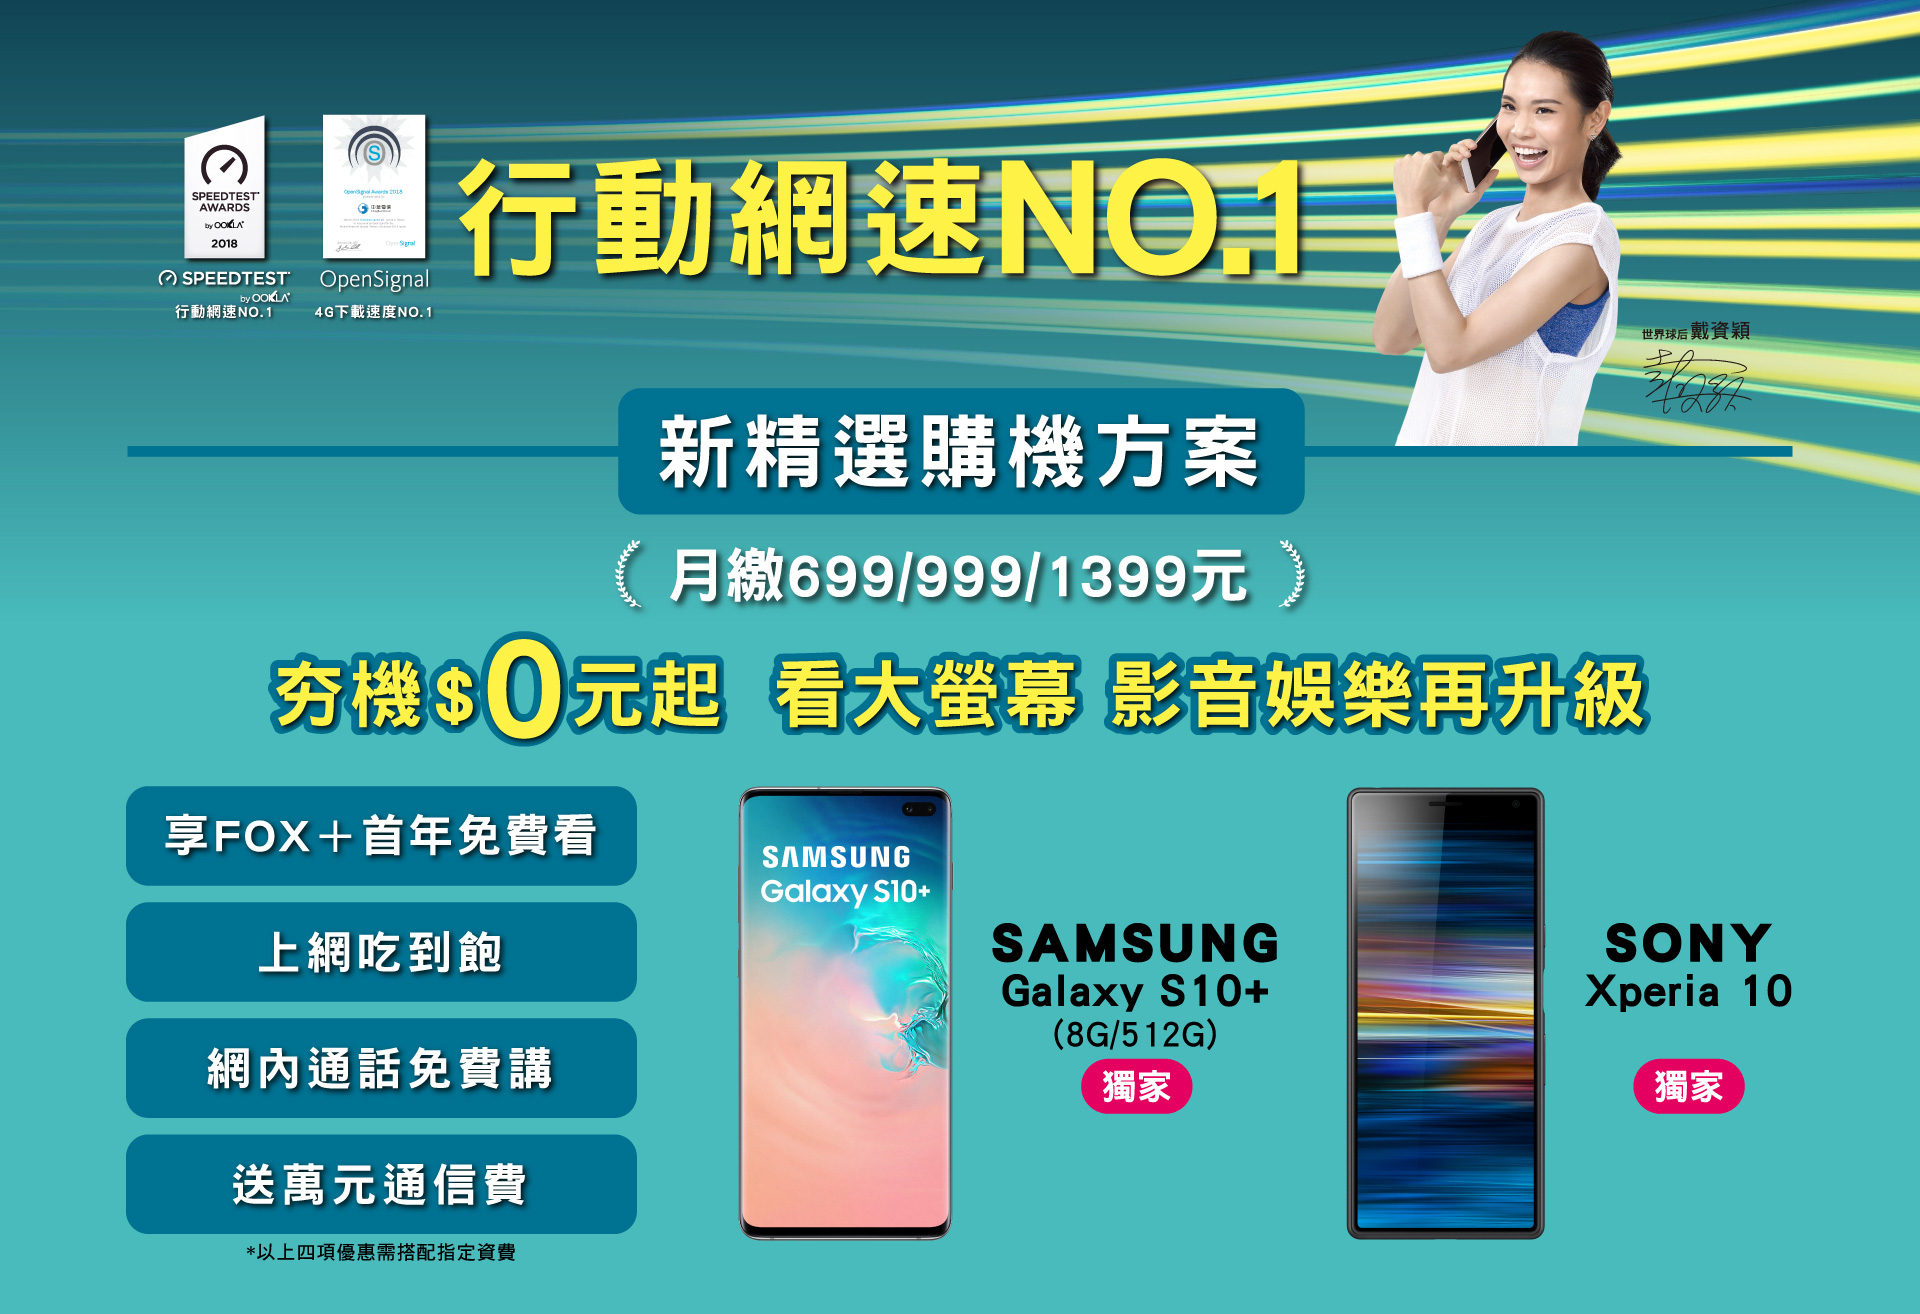
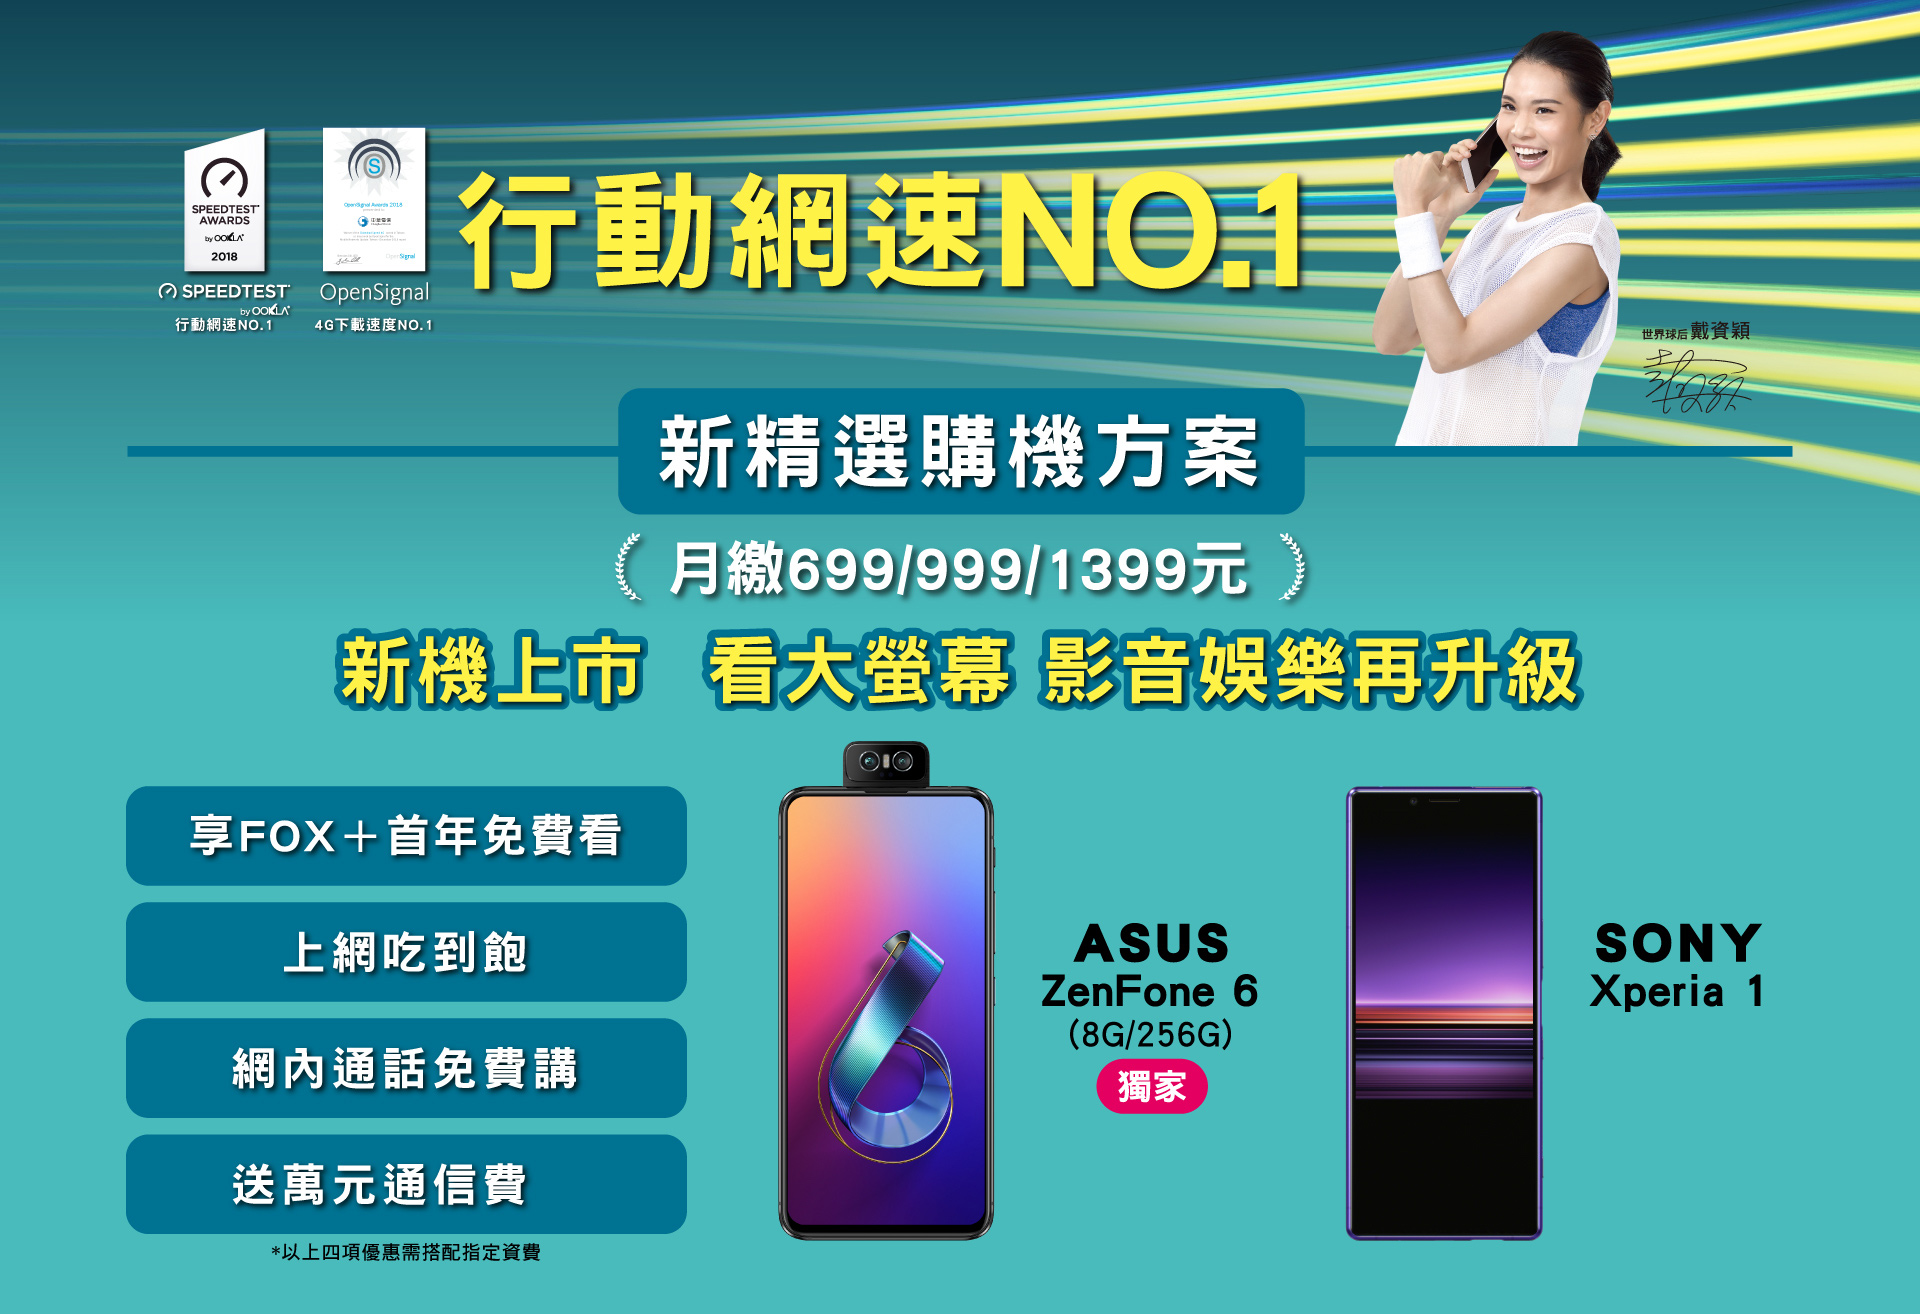
新精選
更新手機型號與連結
更新主視覺

diff --git a/demo/new_699/index.html b/demo/new_699/index.html
@@ -3055,7 +3055,7 @@
 		<div class="nav-wrap">
 			<ul class="nav_page">
 				<li>
-					<a href="http://www.emome.net/" target="_blank">
+					<a href="https://www.emome.net/" target="_blank">
 						<img src="img/logo.png">
 					</a>
 				</li>
@@ -3219,18 +3219,19 @@
 					<ul class="exhibtion ">
 
 						<li>
-							<a target="_blank" href="https://iphone-eshop.cdn.hinet.net/Next.html?_gl=1*10grr4t*_gcl_aw*R0NMLjE1NTM0OTcyOTMuQ2p3S0NBancxZHprQlJCV0Vpd0FST1ZETEpkZFZlV2JOSElJWXg2OTNobHZhSmVrWW15WHJ0N0hDdk9nTGV4QXhDS1hyV0UxdEJZYXp4b0NyeGdRQXZEX0J3RQ..&_ga=2.193046116.898658484.1553744473-1549173451.1514430039&_gac=1.250298996.1553497300.CjwKCAjw1dzkBRBWEiwAROVDLJddVeWbNHIIYx693hlvaJekYmyXrt7HCvOgLexAxCKXrWE1tBYazxoCrxgQAvD_BwE">
-								<img src="img/phone_a_002.png" />
-								<h1>APPLE</h1>
-								<p>iPhone XS Max</p>
-								 
-							</a>
-						</li>
-						<li>
-							<a target="_blank" href="https://iphone-eshop.cdn.hinet.net/Next.html?_gl=1*181xehd*_gcl_aw*R0NMLjE1NTM0OTcyOTMuQ2p3S0NBancxZHprQlJCV0Vpd0FST1ZETEpkZFZlV2JOSElJWXg2OTNobHZhSmVrWW15WHJ0N0hDdk9nTGV4QXhDS1hyV0UxdEJZYXp4b0NyeGdRQXZEX0J3RQ..&_ga=2.91712211.898658484.1553744473-1549173451.1514430039&_gac=1.93981295.1553497300.CjwKCAjw1dzkBRBWEiwAROVDLJddVeWbNHIIYx693hlvaJekYmyXrt7HCvOgLexAxCKXrWE1tBYazxoCrxgQAvD_BwE">
+							<a target="_blank" href="https://www.cht.com.tw/home/consumer/mobservice/device/phones#!_keyword%3AXR%26_orderby%3A%26_page%3A1">
 								<img src="img/phone_a_003.png" />
 								<h1>APPLE</h1>
 								<p>iPhone XR</p>
+								
+							</a>
+						</li>
+						<li>
+							<a target="_blank" href="https://www.cht.com.tw/home/consumer/mobservice/device/phones#!_keyword%3AZenfone%206%26_orderby%3A%26_page%3A1">
+								<img src="img/ASUSZF6.png" />
+								<h1>ASUS</h1>
+								<p>ZenFone 6 (8G/256G)</p>
+								<span class="one">獨家</span>
 								
 							</a>
 						</li>
@@ -3250,22 +3251,50 @@
 				<div>
 					<ul class="exhibtion">
 						<li>
-							<a target="_blank" href="https://www.cht.com.tw/home/consumer/mobservice/device/phones/000100001325#color:C50316402002">
-								<img src="img/iPhone7.png" />
+							<a target="_blank" href="https://www.cht.com.tw/home/consumer/mobservice/device/phones#!_keyword%3AXS%20Max%26_orderby%3A%26_page%3A1">
+								<img src="img/phone_a_002.png" />
 								<h1>APPLE</h1>
-								<p>iPhone 7
-								</p>
-
+								<p>iPhone XS Max</p>
+								 
 							</a>
 						</li>
 						<li>
-							<a target="_blank" href="https://www.cht.com.tw/home/consumer/mobservice/device/phones/000100002044#color:050318130002">
-								<img src="img/SONYXZ2.png" />
+							<a target="_blank" href="https://www.cht.com.tw/home/consumer/mobservice/device/phones/000100002384#color:050318979002">
+								<img src="img/SONYXperia1.png" />
 								<h1>SONY</h1>
-								<p>Xperia XZ2</p>
+								<p>Xperia 1</p>
 							</a>
 						</li>
 						
+						<li>
+							<a target="_blank" href="https://www.cht.com.tw/home/consumer/mobservice/device/phones/000100001982#color:050317980002">
+								<img src="img/HTC-U12+.png" />
+								<h1>HTC</h1>
+								<p>U12+</p>
+								<span class="one">獨家</span>
+							</a>
+						</li>
+					</ul>
+				</div>
+				<div>
+					<ul class="exhibtion">
+						
+						<li>
+							<a target="_blank" href="https://www.cht.com.tw/home/consumer/mobservice/device/phones#!_keyword%3AXperia%2010%26_orderby%3A%26_page%3A1">
+								<img src="img/SONYXperia10.png" />
+								<h1>SONY</h1>
+								<p>Xperia 10</p>
+								<span class="one">獨家</span>
+							</a>
+						</li>
+                        <li>
+							<a target="_blank" href="https://www.cht.com.tw/home/consumer/mobservice/device/phones/000100002294#color:050318698002">
+								<img src="img/desire12s.png" />
+								<h1>HTC</h1>
+								<p>Desire 12s</p>
+							</a>
+						</li>
+
 						<li>
 							<a target="_blank" href="https://www.cht.com.tw/home/consumer/mobservice/device/phones/000100002354#color:050318920002">
 								<img src="img/A50.png" />
@@ -3277,65 +3306,30 @@
 				</div>
 				<div>
 					<ul class="exhibtion">
-						
+						<li>
+							<a target="_blank" href="https://www.cht.com.tw/home/consumer/mobservice/device/phones/000100002306">
+								<img src="img/mate20x.png" />
+								<h1>HUAWEI </h1>
+								<p>Mate 20 X</p>
+                                <div class="iphone">登錄送<br>北通G1手遊遊戲手把<small>(藍芽版 )</small></div>
+							</a>
+						</li>
+
 						<li>
 							<a target="_blank" href="https://www.cht.com.tw/home/consumer/mobservice/device/phones/000100002345#color:050318862002">
 								<img src="img/ax5s.png" />
 								<h1>OPPO</h1>
 								<p>AX5s</p>
-                                <div class="iphone">
-									送休閒禮包<small>(價值790元)</small><br>(內含數據線/時尚水杯/指環扣)									
-								</div>
 							</a>
 						</li>
-                        <li>
-							<a target="_blank" href="https://www.cht.com.tw/home/consumer/mobservice/device/phones/000100002294#color:050318698002">
-								<img src="img/desire12s.png" />
-								<h1>HTC</h1>
-								<p>Desire 12s</p>
-							</a>
-						</li>
-						<li>
-							<a target="_blank" href="https://www.cht.com.tw/home/consumer/mobservice/device/phones/000100002279#color:050318663002">
-								<img src="img/zenfone_m2.png" />
-								<h1>ASUS </h1>
-								<p>ZenFone Max (M2)
-								</p>
-								<b>中華首賣</b>
-								<div class="iphone">
-									獨家送32G記憶卡
-								</div>
 
-							</a>
-						</li>
-					</ul>
-				</div>
-				<div>
-					<ul class="exhibtion">
+
+
 						<li>
-							<a target="_blank" href="https://www.cht.com.tw/home/consumer/mobservice/device/phones/000100002317">
-								<img src="img/phone_c_002-2.png" />
-								<h1>HUAWEI</h1>
-								<p>Y7 Pro 2019</p>
-                                <div class="iphone">
-									送休閒禮包<small>(價值790元)</small><br>(內含數據線/時尚水杯/指環扣)									
-								</div>
-							</a>
-						</li>
-						<li>
-							<a target="_blank" href="https://www.cht.com.tw/home/consumer/mobservice/device/phones/000100002306">
-								<img src="img/phone_b_006-2.png" />
-								<h1>HUAWEI </h1>
-								<p>Mate 20 X</p>
-								<span class="one">獨家</span>
-                                <div class="iphone">登錄送<br>北通G1手遊遊戲手把<small>(藍芽版 )</small></div>
-							</a>
-						</li>
-						<li>
-							<a target="_blank" href="https://www.cht.com.tw/home/consumer/mobservice/device/phones/000100002194#color:050318460002">
-								<img src="img/phone_b_008.png" />
-								<h1>SAMSUNG</h1>
-								<p>Galaxy A7</p>
+							<a target="_blank" href="https://www.cht.com.tw/home/consumer/mobservice/device/phones/000100002330#color:050318812002">
+								<img src="img/redmi.png" />
+								<h1>Redmi</h1>
+								<p>Note 7</p>
 							</a>
 						</li>
 					</ul>
@@ -3346,26 +3340,26 @@
 			<div>
 				<ul class="exhibtion">
 					<li>
-							<a target="_blank" href="https://iphone-eshop.cdn.hinet.net/Next.html?_gl=1*10grr4t*_gcl_aw*R0NMLjE1NTM0OTcyOTMuQ2p3S0NBancxZHprQlJCV0Vpd0FST1ZETEpkZFZlV2JOSElJWXg2OTNobHZhSmVrWW15WHJ0N0hDdk9nTGV4QXhDS1hyV0UxdEJZYXp4b0NyeGdRQXZEX0J3RQ..&_ga=2.193046116.898658484.1553744473-1549173451.1514430039&_gac=1.250298996.1553497300.CjwKCAjw1dzkBRBWEiwAROVDLJddVeWbNHIIYx693hlvaJekYmyXrt7HCvOgLexAxCKXrWE1tBYazxoCrxgQAvD_BwE">
-								<img src="img/phone_a_002.png" />
-                                <div class="ttt">
-								<h1>APPLE</h1>
-								<p>iPhone XS Max</p>
-								 
-                                </div>
-							</a>
+						<a target="_blank" href="https://www.cht.com.tw/home/consumer/mobservice/device/phones#!_keyword%3AXR%26_orderby%3A%26_page%3A1">
+							<img src="img/phone_a_003.png" />
+							<div class="ttt">
+							<h1>APPLE</h1>
+							<p>iPhone XR</p>
+							 
+							</div>
+						</a>
 						</li>
 				</ul>
 			</div>
 			<div>
 				<ul class="exhibtion">
 					<li>
-							<a target="_blank" href="https://iphone-eshop.cdn.hinet.net/Next.html?_gl=1*181xehd*_gcl_aw*R0NMLjE1NTM0OTcyOTMuQ2p3S0NBancxZHprQlJCV0Vpd0FST1ZETEpkZFZlV2JOSElJWXg2OTNobHZhSmVrWW15WHJ0N0hDdk9nTGV4QXhDS1hyV0UxdEJZYXp4b0NyeGdRQXZEX0J3RQ..&_ga=2.91712211.898658484.1553744473-1549173451.1514430039&_gac=1.93981295.1553497300.CjwKCAjw1dzkBRBWEiwAROVDLJddVeWbNHIIYx693hlvaJekYmyXrt7HCvOgLexAxCKXrWE1tBYazxoCrxgQAvD_BwE">
-								<img src="img/phone_a_003.png" />
+							<a target="_blank" href="https://www.cht.com.tw/home/consumer/mobservice/device/phones#!_keyword%3AZenfone%206%26_orderby%3A%26_page%3A1">
+								<img src="img/ASUSZF6.png" />
                                 <div class="ttt">
-								<h1>APPLE</h1>
-								<p>iPhone XR</p>
-								 
+								<h1>ASUS</h1>
+								<p>ZenFone 6 (8G/256G)</p>
+								<span class="one">獨家</span>
                                 </div>
 							</a>
 						</li>
@@ -3390,29 +3384,25 @@
 			<div>
 				<ul class="exhibtion">
 					<li>
-							<a target="_blank" href="https://www.cht.com.tw/home/consumer/mobservice/device/phones/000100001325#color:C50316402002">
-								<img src="img/iPhone7.png" />
-                                <div class="ttt">
-								<h1>APPLE</h1>
-								<p>iPhone 7
-								</p>
-								<b>中華首賣</b>
-								<div class="iphone">
-									獨家送32G記憶卡
-								</div>
-                                </div>
-							</a>
+						<a target="_blank" href="https://www.cht.com.tw/home/consumer/mobservice/device/phones#!_keyword%3AXS%20Max%26_orderby%3A%26_page%3A1">
+							<img src="img/phone_a_002.png" />
+							<div class="ttt">
+							<h1>APPLE</h1>
+							<p>iPhone XS Max</p>
+							 
+							</div>
+						</a>
 						</li>
 				</ul>
 			</div>
 			<div>
 				<ul class="exhibtion">
 					<li>
-							<a target="_blank" href="https://www.cht.com.tw/home/consumer/mobservice/device/phones/000100002044#color:050318130002">
-								<img src="img/SONYXZ2.png" />
+							<a target="_blank" href="https://www.cht.com.tw/home/consumer/mobservice/device/phones/000100002384#color:050318979002">
+								<img src="img/SONYXperia1.png" />
                                 <div class="ttt">
 								<h1>SONY</h1>
-								<p>Xperia XZ2</p>
+								<p>Xperia 1</p>
                                 </div>
 							</a>
 						</li>
@@ -3421,29 +3411,27 @@
 			<div>
 				<ul class="exhibtion">
 					<li>
-							<a target="_blank" href="https://www.cht.com.tw/home/consumer/mobservice/device/phones/000100002354#color:050318920002">
-								<img src="img/A50.png" />
+							<a target="_blank" href="https://www.cht.com.tw/home/consumer/mobservice/device/phones/000100001982#color:050317980002">
+								<img src="img/HTC-U12+.png" />
                                 <div class="ttt">
-								<h1>SAMSUNG</h1>
-								<p>Galaxy A50</p>
+								<h1>HTC</h1>
+								<p>U12+ (6G/128G)</p>
 								<span class="one">獨家</span>
-                                <div class="iphone">登錄送<br>北通G1手遊遊戲手把<br><small>(藍芽版 )</small></div>
                                 </div>
 							</a>
 						</li>
+
+					
 				</ul>
 			</div>
 			<div>
 				<ul class="exhibtion">
                     <li>
-							<a target="_blank" href="https://www.cht.com.tw/home/consumer/mobservice/device/phones/000100002345#color:050318862002">
-								<img src="img/ax5s.png" />
+							<a target="_blank" href="https://www.cht.com.tw/home/consumer/mobservice/device/phones#!_keyword%3AXperia%2010%26_orderby%3A%26_page%3A1">
+								<img src="img/SONYXperia10.png" />
                                 <div class="ttt">
-								<h1>OPPO</h1>
-								<p>AX5s</p>
-                                <div class="iphone">
-									送休閒禮包<small>(價值790元)</small><br>(內含數據線/時尚水杯/指環扣)									
-								</div>
+								<h1>SONY</h1>
+								<p>Xperia 10</p>
                                 </div>
 							</a>
 						</li>
@@ -3465,43 +3453,43 @@
 			<div>
 				<ul class="exhibtion">
 					<li>
-							<a target="_blank" href="https://www.cht.com.tw/home/consumer/mobservice/device/phones/000100002279#color:050318663002">
-								<img src="img/zenfone_m2.png" />
+							<a target="_blank" href="https://www.cht.com.tw/home/consumer/mobservice/device/phones/000100002354#color:050318920002">
+								<img src="img/A50.png" />
                                 <div class="ttt">
-								<h1>ASUS </h1>
-								<p>ZenFone Max (M2)
-								</p>
-								<b>中華首賣</b>
+								<h1>SAMSUNG</h1>
+								<p>Galaxy A50</p>
+								<span class="one">獨家</span>
+                                <div class="iphone">登錄送<br>北通G1手遊遊戲手把<br><small>(藍芽版 )</small></div>
                                 </div>
 							</a>
 						</li>
 				</ul>
 			</div>
+			
 			<div>
 				<ul class="exhibtion">
-					<li>
-							<a target="_blank" href="https://www.cht.com.tw/home/consumer/mobservice/device/phones/000100002317">
-								<img src="img/phone_c_002-2.png" />
+                     <li>
+							<a target="_blank" href="https://www.cht.com.tw/home/consumer/mobservice/device/phones/000100002306">
+								<img src="img/mate20x.png" />
                                 <div class="ttt">
 								<h1>HUAWEI</h1>
-								<p>Y7 Pro 2019</p>
+								<p>Mate20x</p>
                                 </div>
 							</a>
 						</li>
-					
 				</ul>
 			</div>
 			<div>
 				<ul class="exhibtion">
-                    <li>
-							<a target="_blank" href="https://www.cht.com.tw/home/consumer/mobservice/device/phones/000100002306">
-								<img src="img/phone_b_006-2.png" />
+                   
+					<li>
+							<a target="_blank" href="https://www.cht.com.tw/home/consumer/mobservice/device/phones/000100002345#color:050318862002">
+								<img src="img/ax5s.png" />
                                 <div class="ttt">
-								<h1>HUAWEI </h1>
-								<p>Mate 20 X</p>
-								<span class="one">獨家</span>
+								<h1>OPPO</h1>
+								<p>AX5s</p>
                                 <div class="iphone">
-									登錄送早鳥大禮包<br><small>(價值1590元)</small><br>(內含背蓋/自拍棒/自拍燈)
+									送休閒禮包<small>(價值790元)</small><br>(內含數據線/時尚水杯/指環扣)									
 								</div>
                                 </div>
 							</a>
@@ -3510,15 +3498,16 @@
 			</div>
 			<div>
 				<ul class="exhibtion">
-                    <li>
-							<a target="_blank" href="https://www.cht.com.tw/home/consumer/mobservice/device/phones/000100002194#color:050318460002">
-								<img src="img/phone_b_008.png" />
+					<li>
+							<a target="_blank" href="https://www.cht.com.tw/home/consumer/mobservice/device/phones/000100002330#color:050318812002">
+								<img src="img/redmi.png" />
                                 <div class="ttt">
-								<h1>SAMSUNG</h1>
-								<p>Galaxy A7</p>
+								<h1>Redmi</h1>
+								<p>Note 7</p>
                                 </div>
 							</a>
 						</li>
+					
 				</ul>
 			</div>
 			
@@ -3789,6 +3778,6 @@
 	}
 	setTimeout(hash, 1200)
 </script>
-<!-- 190305_eShop -->
+<!-- 190520_eShop -->
 
 </html>
